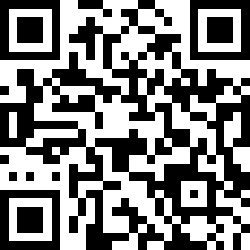
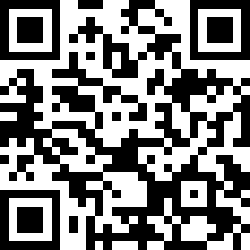
Volcamp 2024 (#9)
* feat: ✨ Volcamp 2024 resource

* fix: 🐛 FIx wrong URL in thanks slide

* feat: 🖼 global map update

* feat: 🖼 global map update

* feat: ✨ add merci slide and small updates for AI Endpoints

diff --git a/assets/css/custom.css b/assets/css/custom.css
@@ -92,6 +92,23 @@ h2 {
 }
 
 /****
+ * CSS Styles for quarkus.sdf slide
+ ****/
+ .demos {
+  background-image: url(../images/demos.jpg);
+  background-size: cover;
+  display: block;
+}
+
+.demos h2 {
+  color: #000;
+}
+
+.demo-image-author a {
+  color: #fff;
+}
+
+/****
  * CSS Styles for _picocli-advanced.sdf slide
  ****/
 .pico-advanced a {
@@ -100,7 +117,8 @@ h2 {
 
 .ovhcloud-world {
   background-image: url(../images/ovhcloud-world.png);
-  background-size: 95%;
+  background-size: cover;
+  display: block;
   background-repeat: no-repeat;
   background-position: center;
   display: block;
@@ -127,10 +145,16 @@ h2 {
 /****
  * CSS Styles for _merciii.sdf slide
  ****/
+ .love {
+  background-image: url(../images/love.jpg);
+  background-size: cover;
+  display: block;
+}
+
 .love h2 {
   color: #fff;
   position: relative;
-  top: 65%;
+  top: 40%;
   left: 25%;
   font-size: 300%;
 }

diff --git a/plugins/footer/footer.html b/plugins/footer/footer.html
@@ -4,6 +4,6 @@
     <img src="assets/images/OVHcloud_logo.png" alt="OVHcloud logo" style="width: 15%;" />
   </div>
   <div class="slide-footer">
-    <img src="assets/images/riviera-dev-logo.png" alt="Riviera Dev center logo" style="width: 60%;margin: auto;" />
+    <img src="assets/images/logo_volcamp.png" alt="Volcamp center logo" style="width: 40%;margin: auto;" />
   </div>
 </div>
